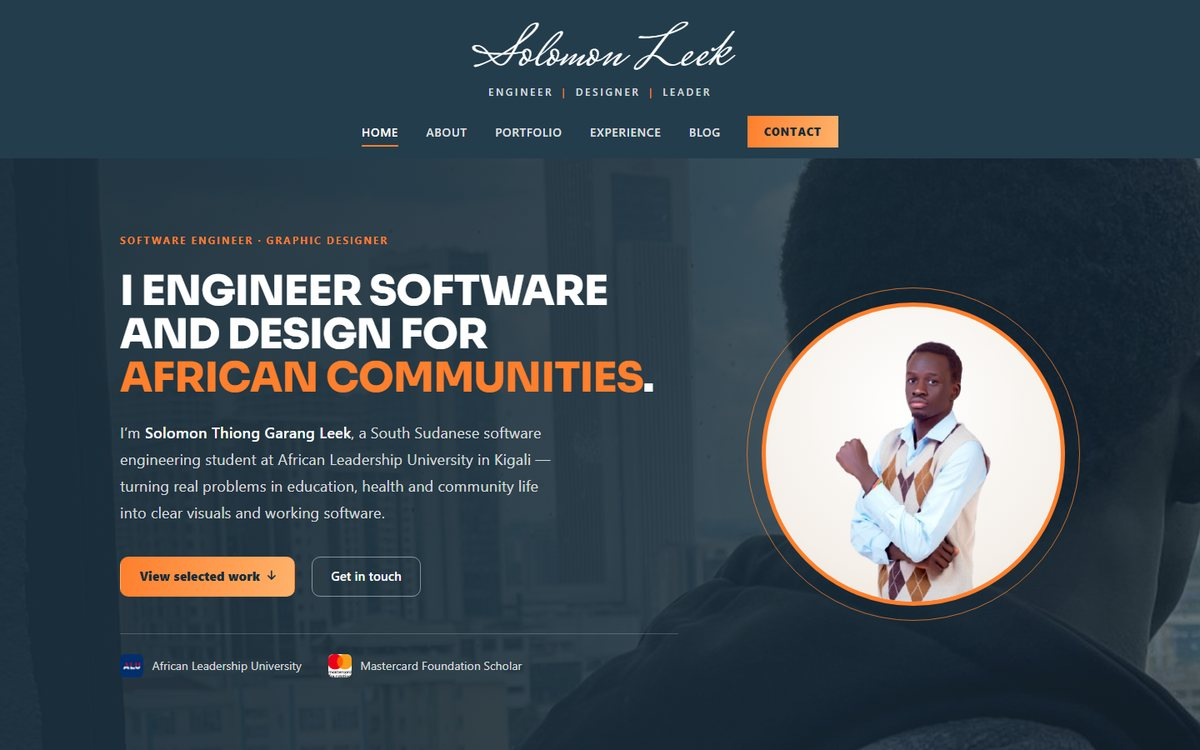
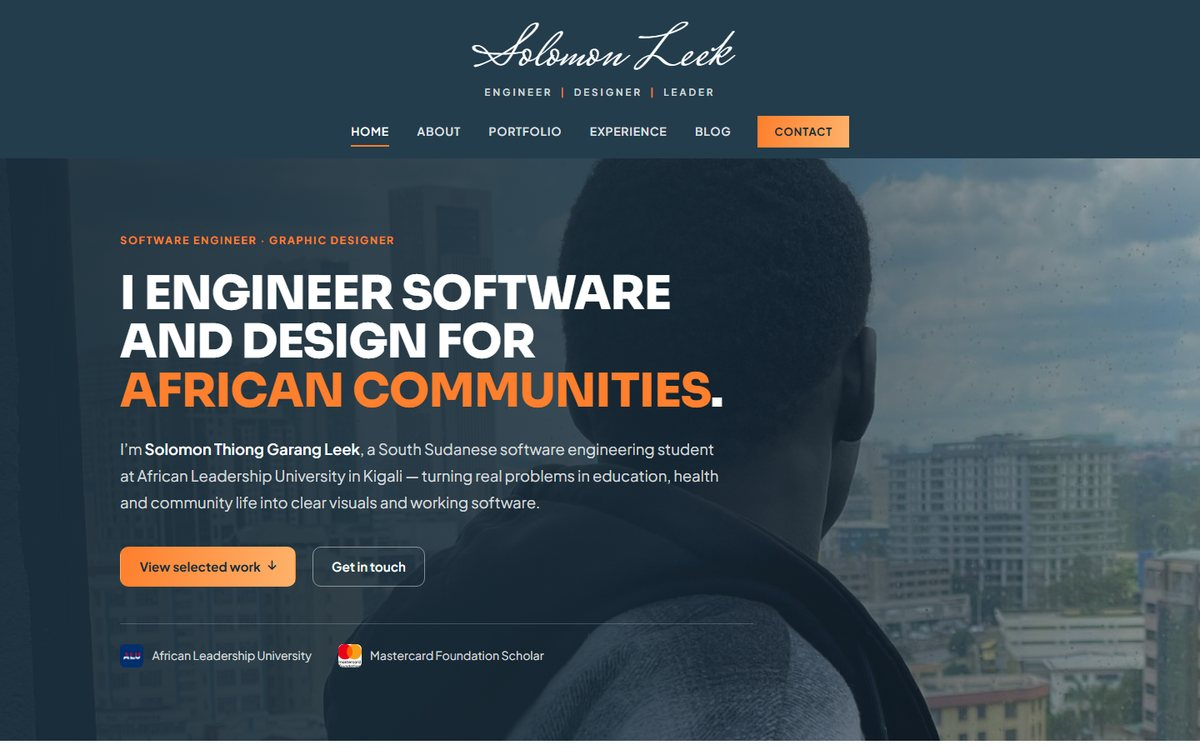
Move portrait from the hero to the About section

diff --git a/css/home.css b/css/home.css
@@ -138,37 +138,6 @@ body.home {
 .hero__creds li { display: flex; align-items: center; gap: 0.65rem; }
 .hero__creds img { width: 28px; height: 28px; border-radius: 6px; object-fit: cover; }
 
-.hero__portrait {
-  position: relative; margin: 0;
-  justify-self: end;
-  width: min(100%, 400px);
-  display: grid; gap: 1rem;
-}
-/* Circular portrait with an offset orange ring */
-.hero__frame {
-  position: relative;
-  aspect-ratio: 1;
-  padding: 18px;
-}
-.hero__frame::before {
-  content: ''; position: absolute; inset: 0;
-  border-radius: 50%;
-  border: 1.5px solid rgba(254, 127, 45, 0.55);
-}
-.hero__circle {
-  position: relative;
-  width: 100%; height: 100%;
-  border-radius: 50%;
-  overflow: hidden;
-  background: radial-gradient(circle at 50% 35%, #ffffff 0%, #f4efe9 70%, #eadfd3 100%);
-  border: 5px solid var(--site-orange);
-  box-shadow: 0 24px 60px rgba(35,61,77,0.16);
-}
-.hero__circle img {
-  position: absolute; left: 50%; bottom: -32%;
-  height: 125%; width: auto; max-width: none;
-  transform: translateX(-50%);
-}
 /* ── Selected work ──────────────────────────────────── */
 .work-list { display: grid; gap: clamp(3.5rem, 7vw, 6rem); }
 .work {
@@ -390,7 +359,6 @@ body.home {
 
 @media (max-width: 860px) {
   .hero__grid { grid-template-columns: 1fr; }
-  .hero__portrait { justify-self: center; width: min(86%, 340px); }
   .work, .about, .contact__grid, .initiatives, .split { grid-template-columns: 1fr; }
   .split__aside { position: static; }
   .work:nth-child(even) .work__media { order: 0; }
@@ -428,7 +396,7 @@ body.home {
 .hero--photo {
   border-bottom: 0;
   background:
-    linear-gradient(95deg, rgba(26, 45, 58, 0.95) 0%, rgba(26, 45, 58, 0.86) 52%, rgba(26, 45, 58, 0.62) 100%),
+    linear-gradient(95deg, rgba(26, 45, 58, 0.95) 0%, rgba(26, 45, 58, 0.84) 50%, rgba(26, 45, 58, 0.34) 100%),
     url('../images/hero-bg.jpg') center 35% / cover no-repeat;
 }
 .hero--photo .eyebrow { color: var(--site-orange); }
@@ -442,7 +410,6 @@ body.home {
 .hero--photo .btn--primary:hover { filter: brightness(1.07); background: linear-gradient(100deg, var(--site-orange), #ffb26b); }
 .hero--photo .btn--ghost { color: #fff; border-color: rgba(255, 255, 255, 0.45); }
 .hero--photo .btn--ghost:hover { border-color: #fff; background: rgba(255, 255, 255, 0.08); }
-.hero--photo .hero__frame::before { border-color: rgba(254, 127, 45, 0.8); }
 
 /* ── About: centred title, full-bleed photo + text panel ── */
 .about-split { padding-top: clamp(4rem, 8vw, 6.5rem); }
@@ -457,10 +424,21 @@ body.home {
   color: var(--site-ink); text-wrap: balance;
 }
 .about-split__grid { display: grid; grid-template-columns: minmax(0, 0.8fr) minmax(0, 1.2fr); }
-.about-split__photo { position: relative; min-height: 620px; overflow: hidden; background: var(--site-surface); }
+/* Cut-out portrait stands on a teal panel, feet off the bottom edge */
+.about-split__photo {
+  position: relative; min-height: 620px; overflow: hidden; margin: 0;
+  background: linear-gradient(170deg, var(--site-ink) 0%, var(--site-ink-deep) 100%);
+}
+.about-split__photo::before {
+  content: ''; position: absolute; left: 50%; top: 50%;
+  width: min(74%, 420px); aspect-ratio: 1;
+  transform: translate(-50%, -50%);
+  border-radius: 50%; background: var(--site-orange);
+}
 .about-split__photo img {
-  position: absolute; inset: 0; width: 100%; height: 100%;
-  object-fit: cover; object-position: center 12%;
+  position: absolute; left: 50%; bottom: 0;
+  width: auto; height: 94%; max-width: none;
+  transform: translateX(-50%);
 }
 .about-split__body {
   background: #f0f2f3;
@@ -478,7 +456,6 @@ body.home {
   .about-split__photo { min-height: 0; aspect-ratio: 4 / 4.4; }
 }
 
-/* Wide screens: enlarge the photo so the figure sits behind the round portrait, skyline behind the text */
-@media (min-width: 861px) {
-  .hero--photo { background-size: auto, 140% auto; background-position: 0 0, 0% 28%; }
-}
+/* Text-only hero: one column, skyline behind the words, figure on the right */
+.hero--photo .hero__grid { grid-template-columns: minmax(0, 1fr); }
+.hero--photo .hero__copy { max-width: 760px; }

diff --git a/index.html b/index.html
@@ -28,7 +28,7 @@
     <link rel="stylesheet" href="https://cdnjs.cloudflare.com/ajax/libs/font-awesome/6.0.0/css/all.min.css">
     <link href="https://fonts.googleapis.com/css2?family=Mrs+Saint+Delafield&display=swap" rel="stylesheet">
     <link rel="stylesheet" href="css/site.css?v=20261101b">
-    <link rel="stylesheet" href="css/home.css?v=20261101b">
+    <link rel="stylesheet" href="css/home.css?v=20261101c">
 
     <!-- Optional overrides for a separately hosted API.
          If unset, the frontend uses same-origin /api routes. -->
@@ -149,13 +149,6 @@
                     </ul>
                 </div>
 
-                <figure class="hero__portrait">
-                    <div class="hero__frame">
-                        <div class="hero__circle">
-                            <img src="images/solomon-hero-cut.png" alt="Solomon Thiong Garang Leek" width="260" height="495" fetchpriority="high">
-                        </div>
-                    </div>
-                </figure>
             </div>
         </section>
 
@@ -230,7 +223,7 @@
             </header>
             <div class="about-split__grid">
                 <figure class="about-split__photo">
-                    <img src="images/about-portrait.jpg" alt="Solomon Thiong Garang Leek at the ALU Nairobi Nexus" width="1000" height="1333" loading="lazy">
+                    <img src="images/solomon-hero-cut.png" alt="Solomon Thiong Garang Leek" width="260" height="495" loading="lazy">
                 </figure>
                 <div class="about-split__body">
                     <p>I began with graphic design, which taught me clarity, structure and storytelling.</p>
